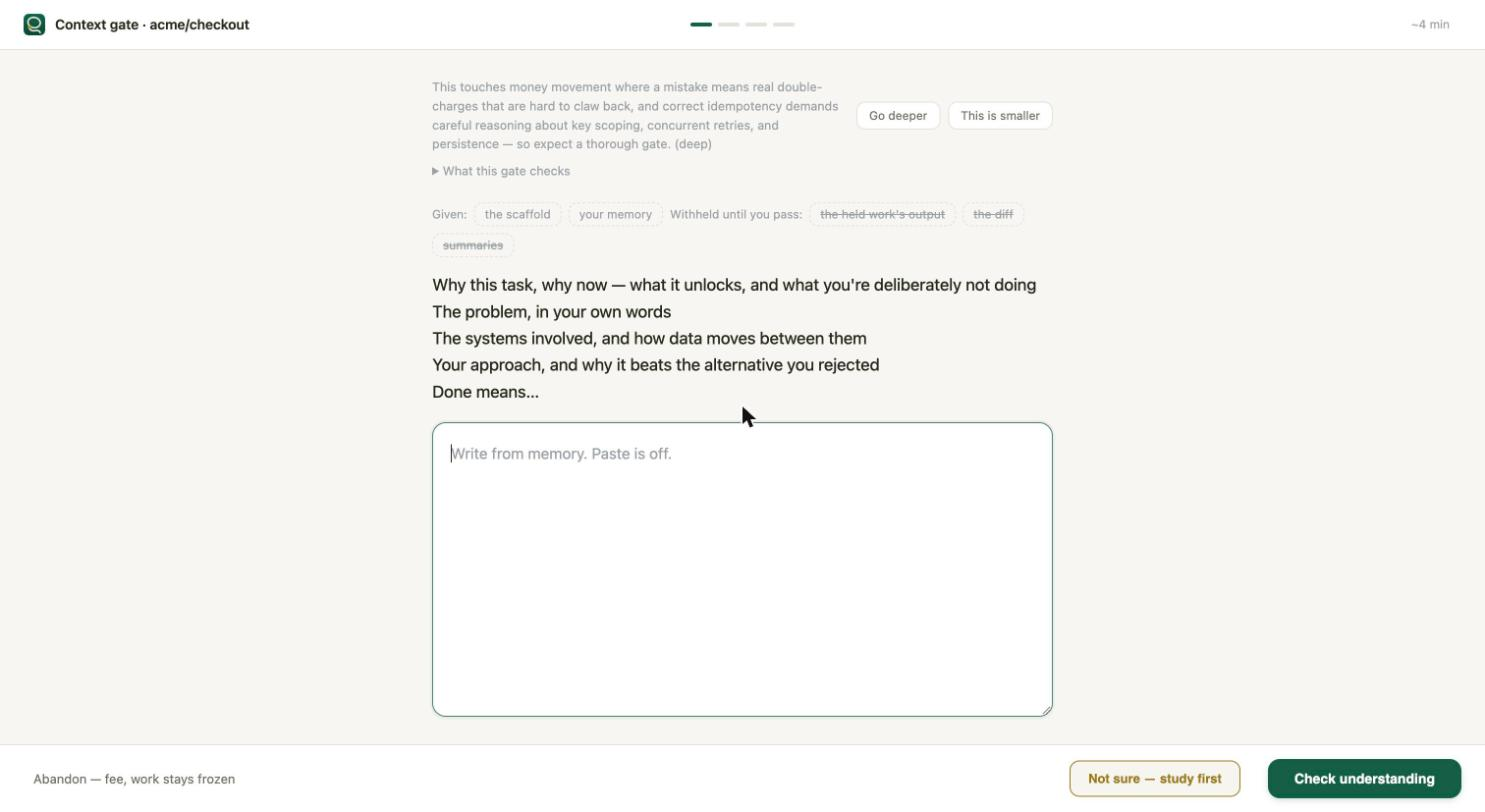
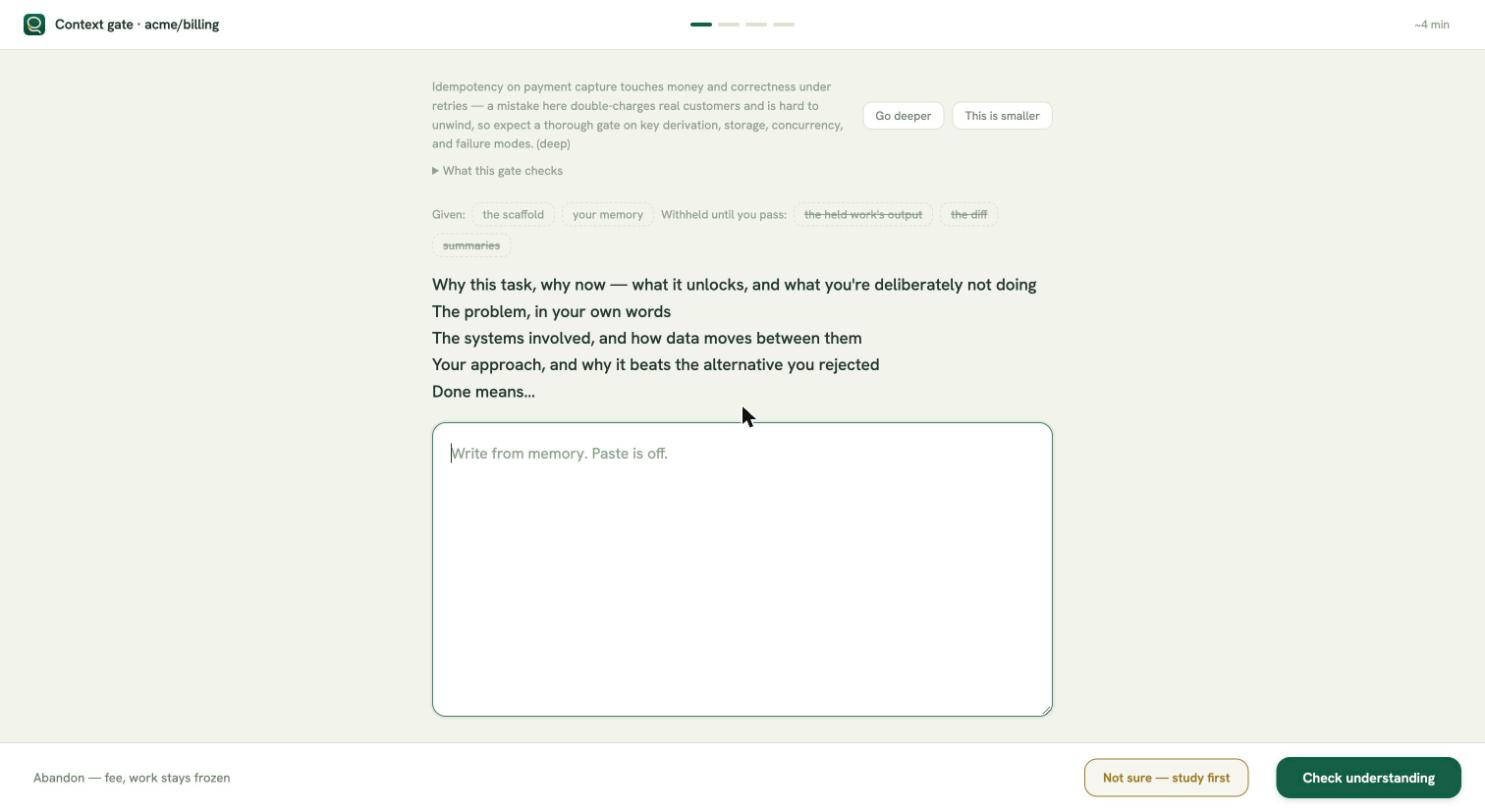
Olive-inspired restyle: sage world, forest ink, Hanken Grotesk, mark v4 (light tile) — restyled real screenshots across flow + landing

diff --git a/index.html b/index.html
@@ -1,17 +1,17 @@
 <title>Lasso</title>
 <link rel="icon" type="image/svg+xml" href="lasso-logo.svg">
 <link rel="preconnect" href="https://fonts.googleapis.com">
-<link rel="stylesheet" href="https://fonts.googleapis.com/css2?family=Inter:wght@400;500;600;700&family=JetBrains+Mono:wght@400;600&family=Fraunces:opsz,wght@9..144,500;9..144,600&display=swap">
+<link rel="stylesheet" href="https://fonts.googleapis.com/css2?family=Hanken+Grotesk:wght@400;500;600;700;800&family=JetBrains+Mono:wght@400;600&family=Fraunces:opsz,wght@9..144,500;9..144,600&display=swap">
 <style>
   /* Flowroom is deliberately a light world (docs/decisions.md) — single-theme, painted explicitly. */
   :root {
     color-scheme: light;
-    --paper: #F7F6F2; --card: #FFFFFF; --ink: #232819; --body: #3E4435; --muted: #687060; --faint: #9aa0a6;
-    --hairline: #E3E1D8; --pine: #115E45; --pine-wash: rgba(17,94,69,.08);
+    --paper: #F2F4EB; --card: #FFFFFF; --ink: #24382B; --body: #3D5244; --muted: #6E7F6C; --faint: #90A08E;
+    --hairline: #DCE2D0; --pine: #115E45; --pine-wash: rgba(17,94,69,.08);
     --sienna: #A64B1A; --sienna-wash: rgba(166,75,26,.06);
     --gold: #9A7B1F; --gold-wash: rgba(154,123,31,.07);
     --mono: "JetBrains Mono", ui-monospace, SFMono-Regular, monospace;
-    --sans: Inter, -apple-system, system-ui, sans-serif;
+    --sans: "Hanken Grotesk", -apple-system, system-ui, sans-serif;
     --serif: Fraunces, Georgia, serif;
   }
   * { box-sizing: border-box; }
@@ -31,8 +31,8 @@
   .hero .brand { display: flex; align-items: center; gap: 10px; margin-bottom: 20px; }
   .hero .knot { width: 30px; height: 30px; border: 2px solid var(--pine); border-radius: 50%; position: relative; }
   .hero .knot::after { content: ""; position: absolute; inset: 6px; border: 2px solid var(--pine); border-radius: 50% 50% 50% 0; transform: rotate(-45deg); }
-  .hero .wordmark { font: 600 17px var(--sans); letter-spacing: -0.01em; }
-  .hero h1 { font: 500 clamp(44px, 6.5vw, 62px)/1.1 var(--serif); letter-spacing: -0.018em; margin: 0 0 16px; max-width: 16ch; text-wrap: balance; }
+  .hero .wordmark { font: 800 21px var(--serif); letter-spacing: -0.02em; color: var(--pine); }
+  .hero h1 { font: 600 clamp(44px, 6.5vw, 62px)/1.08 var(--serif); letter-spacing: -0.018em; margin: 0 0 16px; max-width: 16ch; text-wrap: balance; }
   .hero p { color: var(--body); max-width: 54ch; margin: 0 0 6px; font-size: 17.5px; }
   .hero .loop { display: inline-flex; flex-wrap: wrap; gap: 8px; align-items: center; margin-top: 18px; font-size: 14px; color: var(--muted); }
   .hero .loop b { color: var(--pine); font-weight: 600; }
@@ -266,7 +266,7 @@
 <div class="wrap">
   <header class="hero">
     <div class="brand"><img src="lasso-logo.svg" alt="" width="34" height="34" style="display:block"><span class="wordmark">Lasso</span></div>
-    <h1>You can’t ship what you can’t explain.</h1>
+    <h1>You can’t ship<br><span style="color:#7E9B77">what you can’t explain.</span></h1>
     <p>Lasso rides with your AI coding agent and harnesses your understanding of what it builds. Watch:</p>
 
     <div class="herodemo" id="demo" data-step="0" aria-label="Demo: a prompt is held until you explain your understanding">

diff --git a/flow.html b/flow.html
@@ -1,13 +1,13 @@
 <title>The Lasso Gate Atlas</title>
-<link rel="stylesheet" href="https://fonts.googleapis.com/css2?family=Inter:wght@400;500;600;700&family=JetBrains+Mono:wght@400;600&family=Fraunces:opsz,wght@9..144,500;9..144,600&display=swap">
+<link rel="stylesheet" href="https://fonts.googleapis.com/css2?family=Hanken+Grotesk:wght@400;500;600;700;800&family=JetBrains+Mono:wght@400;600&family=Fraunces:opsz,wght@9..144,500;9..144,600&display=swap">
 <style>
   /* Flowroom is deliberately a light world — single theme, painted explicitly. */
   :root {
-    --paper:#F7F6F2; --card:#FFFFFF; --ink:#232819; --body:#3E4435; --muted:#687060; --faint:#9aa0a6;
-    --line:#E3E1D8; --pine:#115E45; --pine-wash:rgba(17,94,69,.08);
+    --paper:#F2F4EB; --card:#FFFFFF; --ink:#24382B; --body:#3D5244; --muted:#6E7F6C; --faint:#90A08E;
+    --line:#DCE2D0; --pine:#115E45; --pine-wash:rgba(17,94,69,.08);
     --sienna:#A64B1A; --sienna-wash:rgba(166,75,26,.06);
     --gold:#9A7B1F; --gold-wash:rgba(154,123,31,.08);
-    --mono:"JetBrains Mono",ui-monospace,monospace; --sans:Inter,-apple-system,system-ui,sans-serif; --serif:Fraunces,Georgia,serif;
+    --mono:"JetBrains Mono",ui-monospace,monospace; --sans:"Hanken Grotesk",-apple-system,system-ui,sans-serif; --serif:Fraunces,Georgia,serif;
   }
   * { box-sizing:border-box; }
   body { margin:0; background:var(--paper); color:var(--ink); font:15.5px/1.6 var(--sans); }
@@ -96,7 +96,7 @@
   .todayrow.gold { border-color:var(--gold); background:var(--gold-wash); }
   .todayrow .go { margin-left:auto; background:var(--pine); color:#fff; border-radius:8px; padding:4px 13px; font-weight:600; font-size:11px; }
   .todayrow.gold .go { background:var(--gold); }
-  .passband { background:#EFF4EF; border-top:1px solid var(--line); padding:11px 16px; }
+  .passband { background:#E7EEE4; border-top:1px solid var(--line); padding:11px 16px; }
   .passband b { color:var(--pine); }
   .debrief { display:grid; grid-template-columns:1fr 1fr; gap:12px; margin-top:8px; }
   .debrief h6 { margin:0 0 3px; font-size:10.5px; letter-spacing:.06em; text-transform:uppercase; color:var(--faint); }
